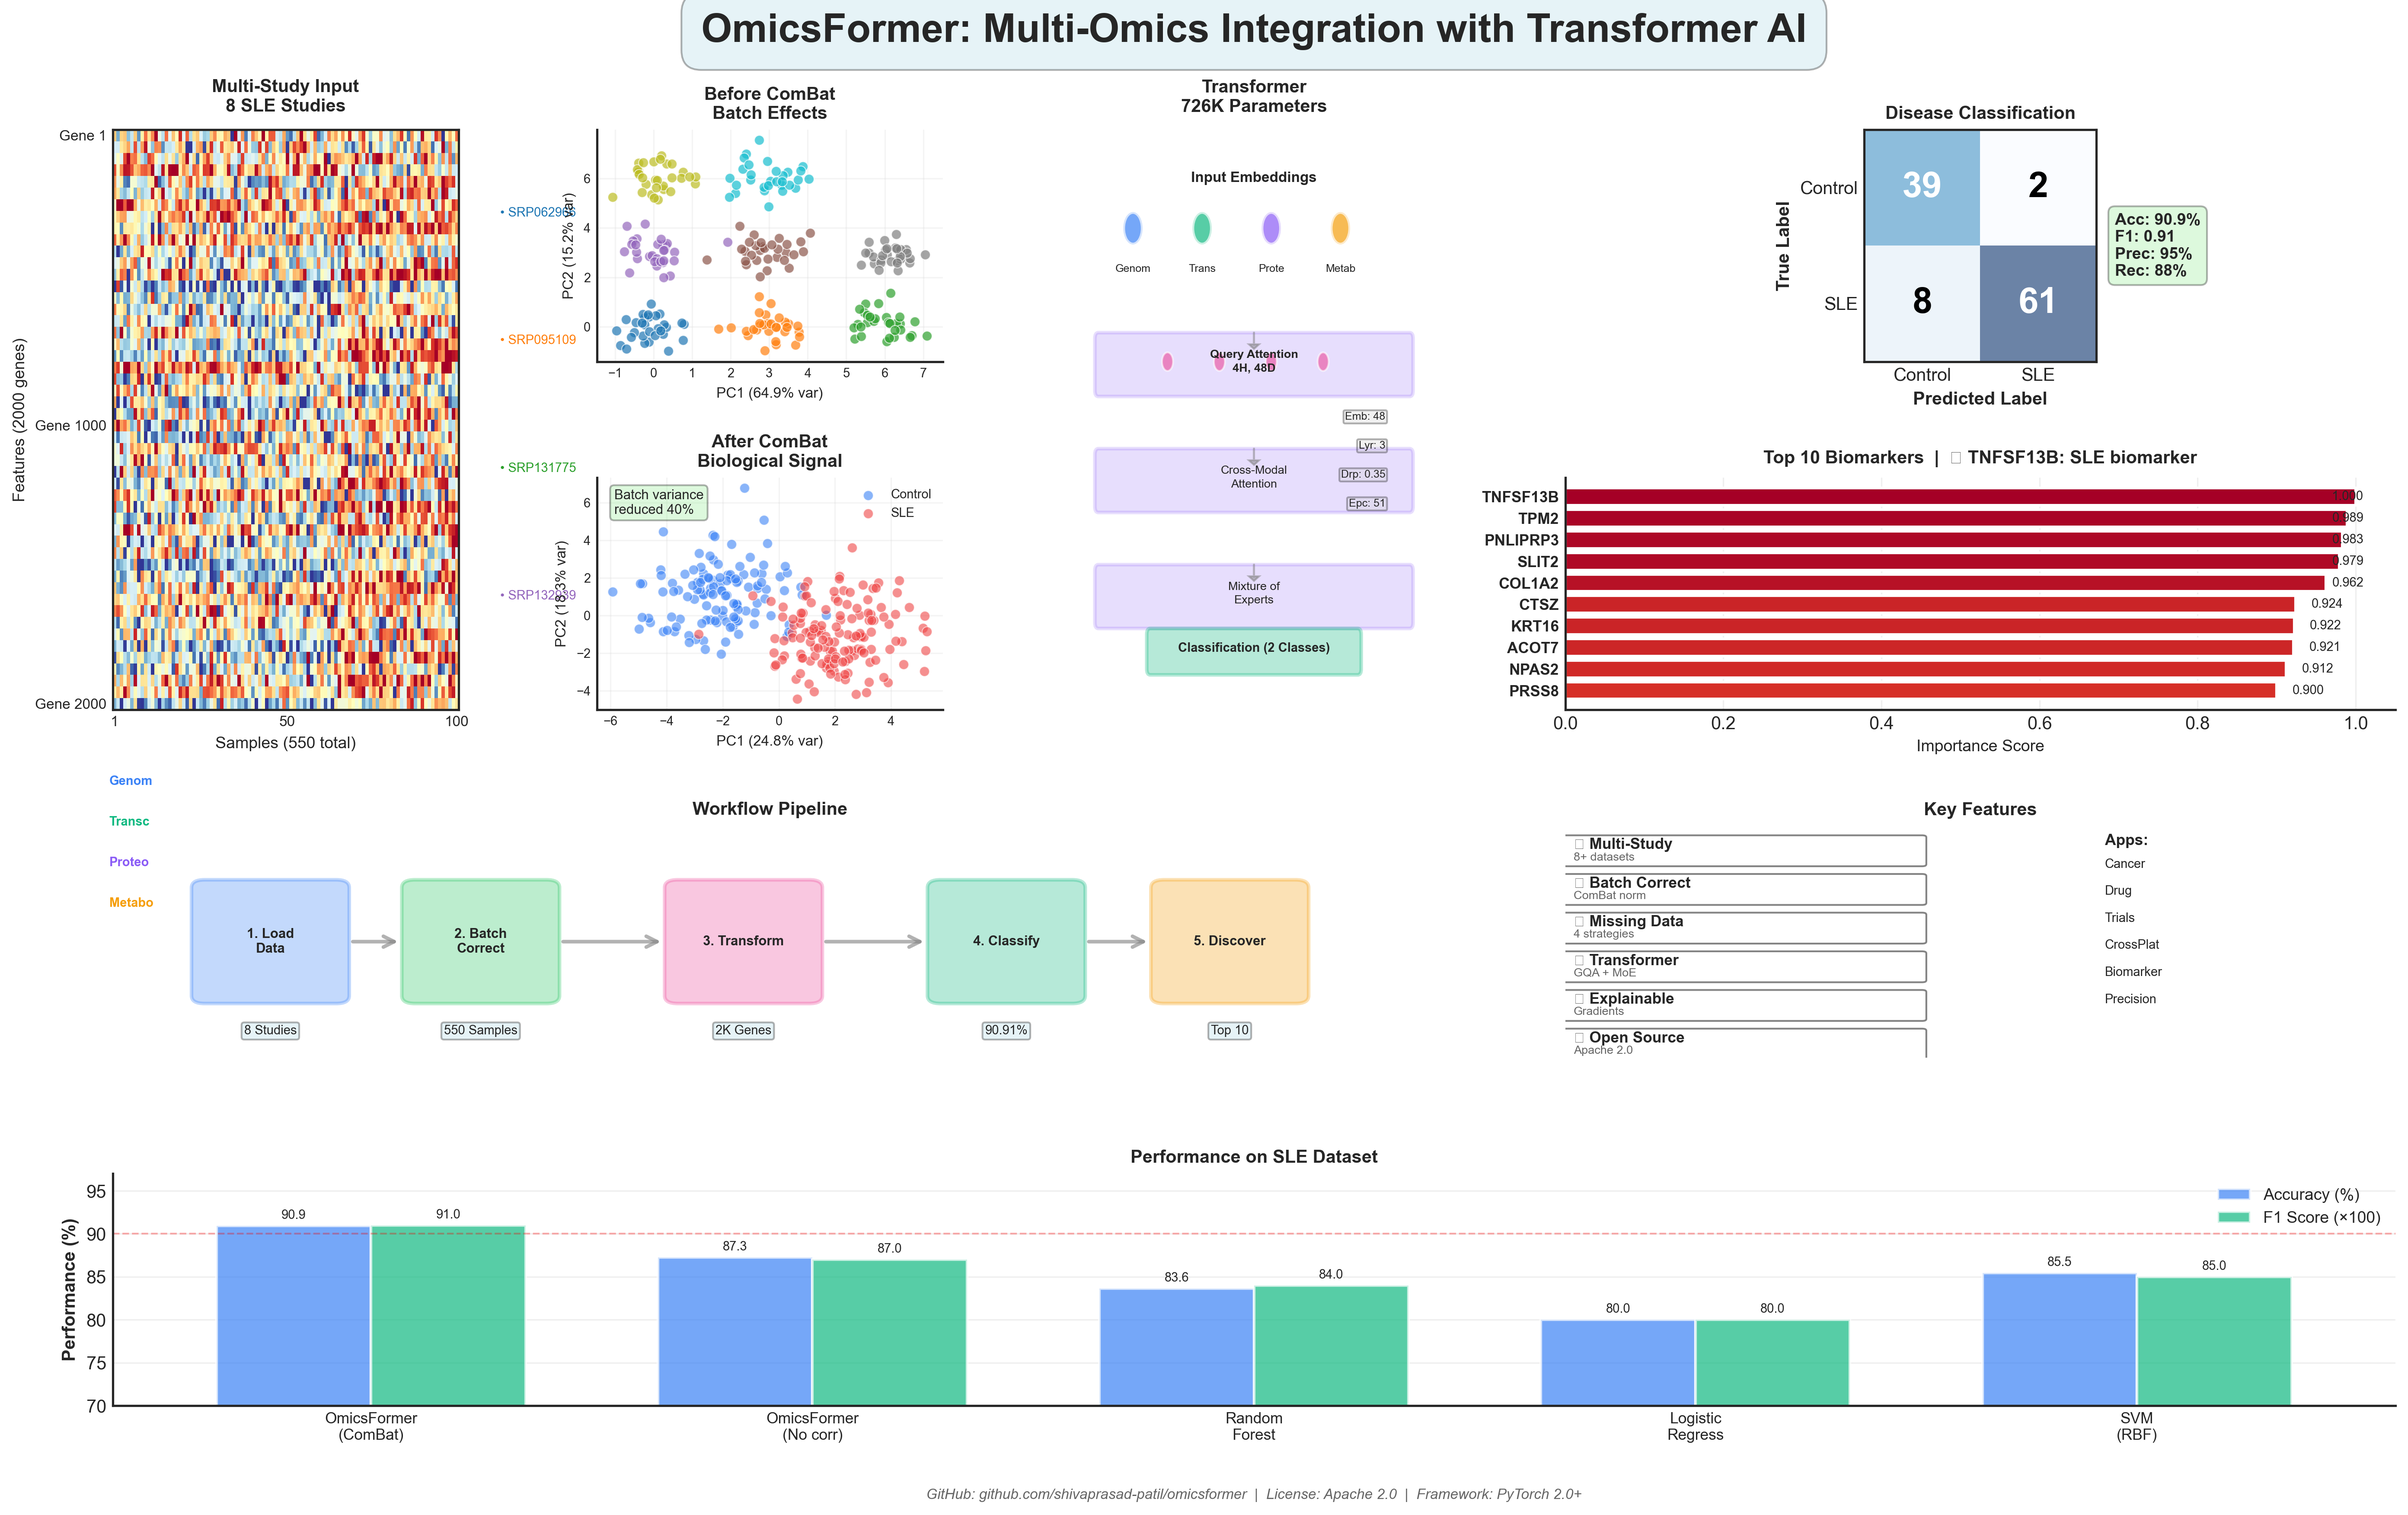
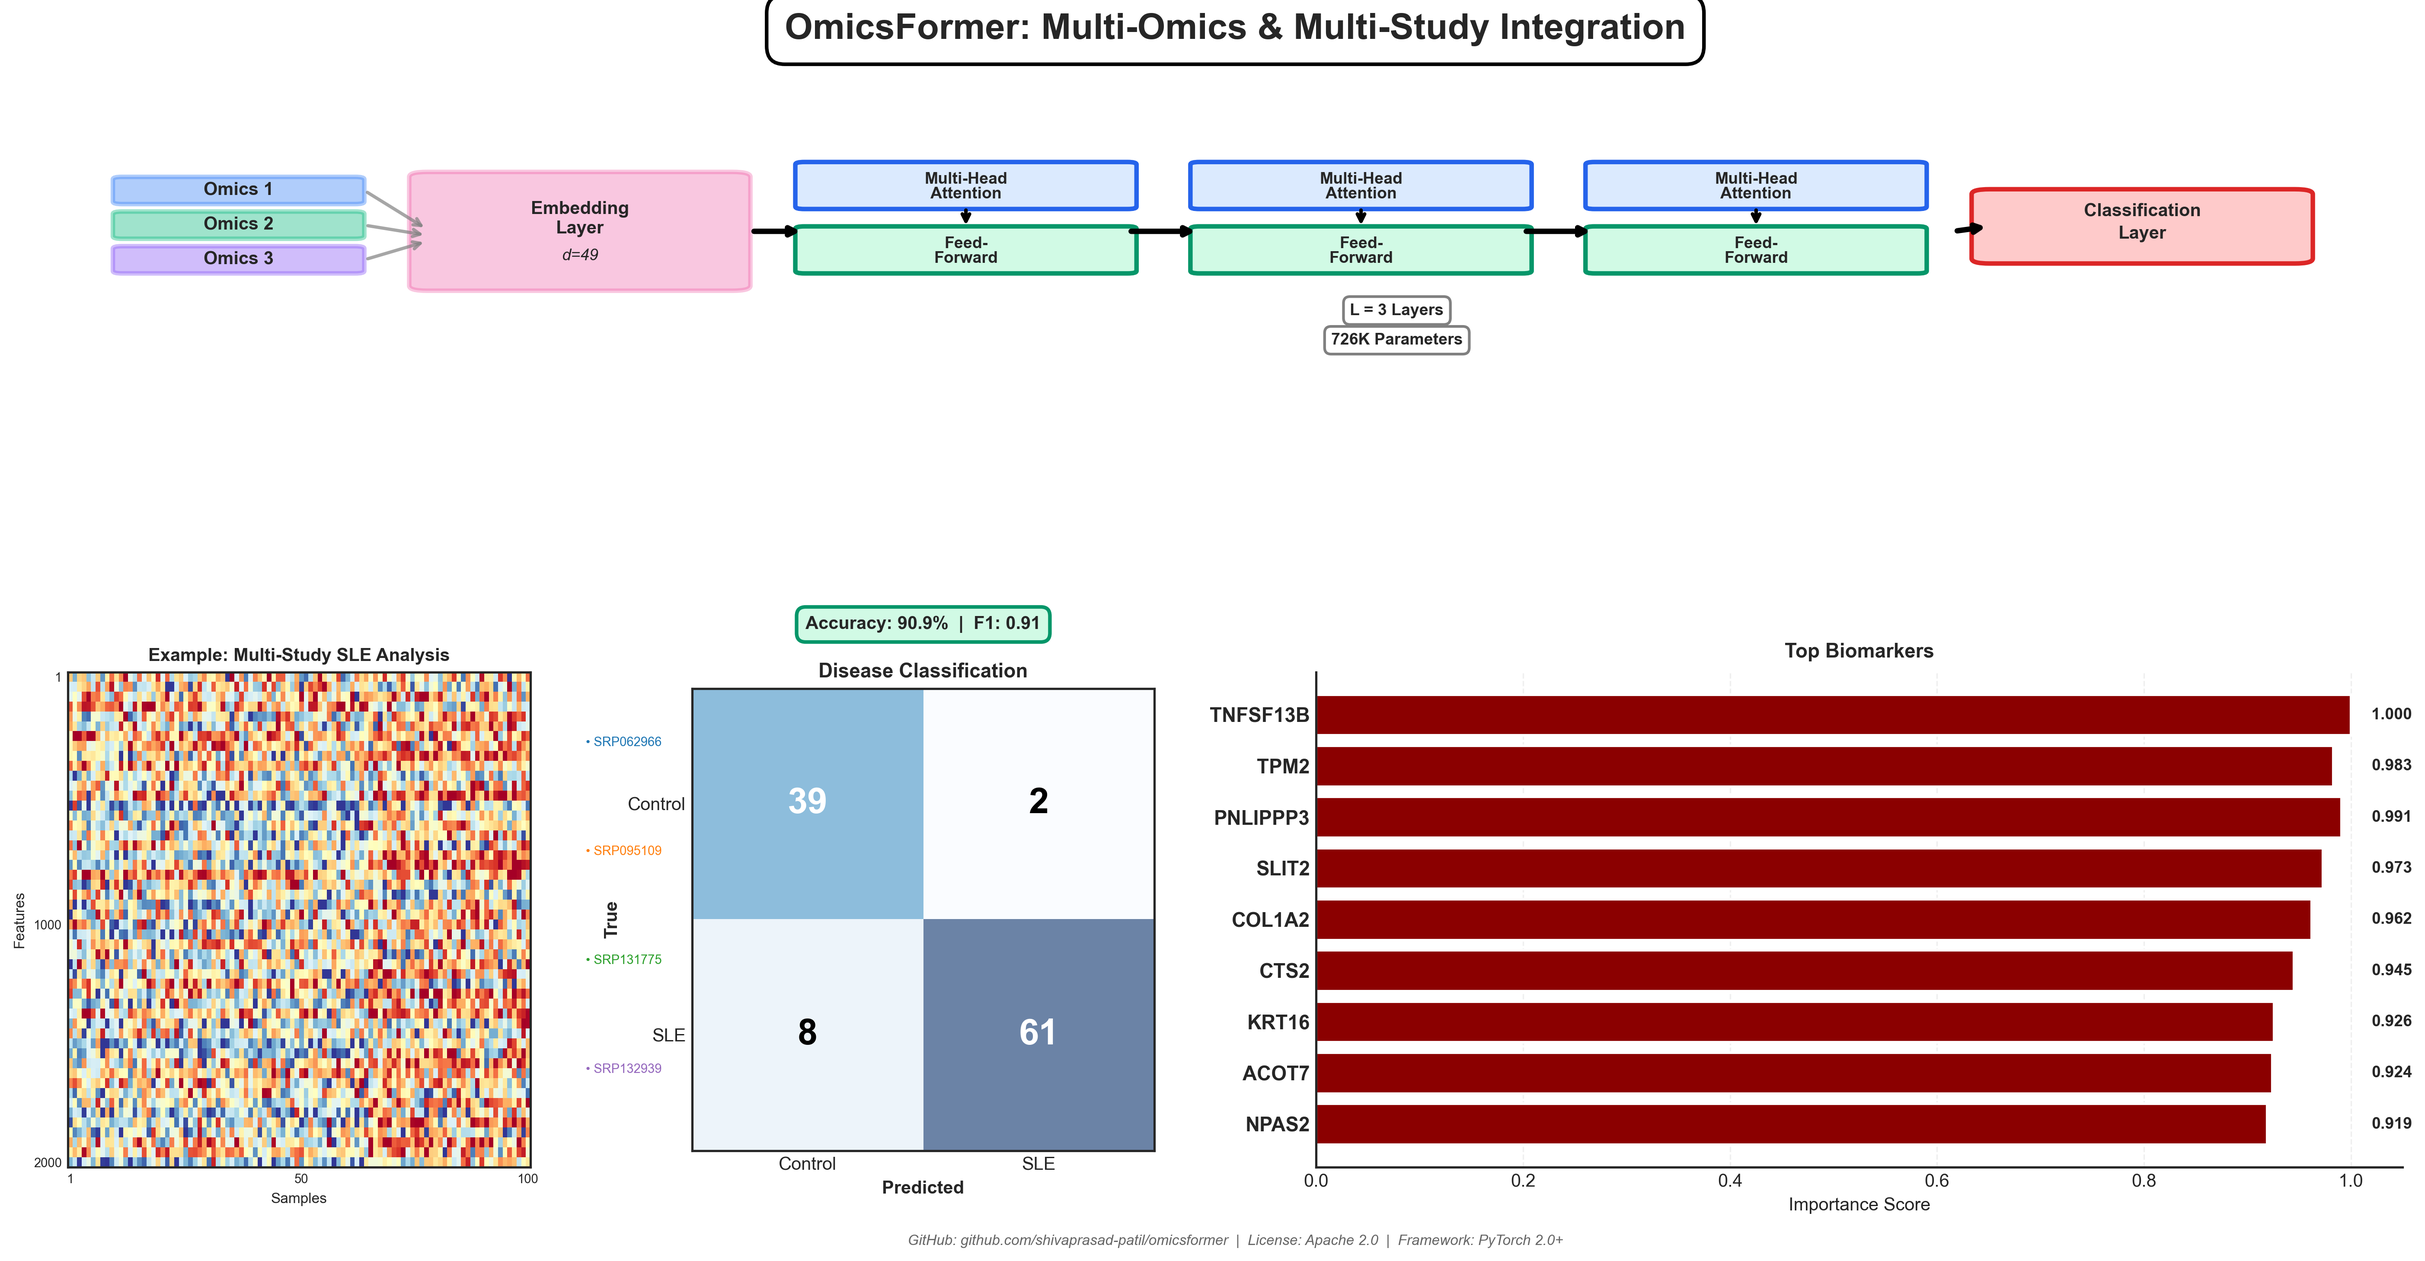
Update OmicsFormer showcase figure: reorganized layout with transformer architecture on top, added disease classification, improved styling for publication

diff --git a/generate_showcase_figure.py b/generate_showcase_figure.py
@@ -1,0 +1,264 @@
+"""
+OmicsFormer Showcase Figure Generator
+
+Creates a comprehensive visualization showcasing the OmicsFormer framework:
+- Multi-study data integration
+- Batch correction effects
+- Transformer architecture
+- Classification results
+- Feature importance
+"""
+
+import matplotlib.pyplot as plt
+import matplotlib.patches as mpatches
+from matplotlib.patches import FancyBboxPatch, FancyArrowPatch, Circle, Rectangle, Wedge
+import numpy as np
+import seaborn as sns
+from matplotlib.gridspec import GridSpec
+from matplotlib.colors import LinearSegmentedColormap
+
+# Set style
+plt.style.use('seaborn-v0_8-white')
+sns.set_palette("husl")
+
+# Create figure with custom layout - architecture on top, examples on bottom
+fig = plt.figure(figsize=(20, 10), facecolor='white')
+gs = GridSpec(2, 4, figure=fig, hspace=0.20, wspace=0.35,
+              left=0.05, right=0.95, top=0.92, bottom=0.08)
+
+# Color scheme
+COLORS = {
+    'genomics': '#3B82F6',
+    'transcriptomics': '#10B981',
+    'proteomics': '#8B5CF6',
+    'metabolomics': '#F59E0B',
+    'neural': '#EC4899',
+    'batch': '#EF4444',
+    'corrected': '#22C55E'
+}
+
+# ============================================================================
+# TITLE
+# ============================================================================
+fig.text(0.5, 0.97, 'OmicsFormer: Multi-Omics & Multi-Study Integration', 
+         ha='center', va='top', fontsize=20, fontweight='bold',
+         bbox=dict(boxstyle='round,pad=0.5', facecolor='white', edgecolor='black', linewidth=2))
+
+
+# ============================================================================
+# SECTION 1: TRANSFORMER ARCHITECTURE (Top - Full Width)
+# ============================================================================
+ax1 = fig.add_subplot(gs[0, :])
+ax1.set_title('Transformer Architecture: General Framework for Multi-Omics Integration', 
+              fontweight='bold', fontsize=11, pad=10)
+
+ax1.axis('off')
+ax1.set_xlim(0, 13)
+ax1.set_ylim(0, 10)
+
+# Input modalities (left side) - only 3 omics, no Study ID
+input_y = 7.5
+modalities = ['Omics 1', 'Omics 2', 'Omics 3']
+colors = [COLORS['genomics'], COLORS['transcriptomics'], 
+          COLORS['proteomics']]
+
+for i, (mod, color) in enumerate(zip(modalities, colors)):
+    y = input_y - i * 0.7
+    rect = FancyBboxPatch((0.3, y), 1.3, 0.45, boxstyle="round,pad=0.05",
+                          edgecolor=color, facecolor=color, alpha=0.4, linewidth=2.5)
+    ax1.add_patch(rect)
+    ax1.text(0.95, y + 0.225, mod, ha='center', va='center', 
+            fontsize=10, fontweight='bold')
+    # Arrow to embedding
+    ax1.annotate('', xy=(2.0, 6.7 + (2-i)*0.12), xytext=(1.65, y + 0.225),
+                arrowprops=dict(arrowstyle='->', lw=1.8, color='gray', alpha=0.7))
+
+# Embedding layer
+emb_rect = FancyBboxPatch((2.0, 5.8), 1.7, 2.2, boxstyle="round,pad=0.1",
+                          edgecolor=COLORS['neural'], facecolor=COLORS['neural'],
+                          alpha=0.3, linewidth=2.5)
+ax1.add_patch(emb_rect)
+ax1.text(2.85, 7.15, 'Embedding\nLayer', ha='center', va='center',
+        fontsize=10, fontweight='bold')
+ax1.text(2.85, 6.4, 'd=49', ha='center', va='center', fontsize=9, style='italic')
+
+# Arrow to transformer layers
+ax1.annotate('', xy=(4.1, 6.9), xytext=(3.8, 6.9),
+            arrowprops=dict(arrowstyle='->', lw=3, color='black'))
+
+# Transformer layers (3 blocks)
+for i in range(3):
+    x = 4.1 + i * 2.2
+    
+    # Multi-head attention
+    attn_rect = FancyBboxPatch((x, 7.4), 1.8, 0.85, boxstyle="round,pad=0.05",
+                              edgecolor='#2563EB', facecolor='#DBEAFE', linewidth=2.5)
+    ax1.add_patch(attn_rect)
+    ax1.text(x + 0.9, 7.95, 'Multi-Head', ha='center', va='center', fontsize=9, fontweight='bold')
+    ax1.text(x + 0.9, 7.65, 'Attention', ha='center', va='center', fontsize=9, fontweight='bold')
+    
+    # Feed-forward
+    ff_rect = FancyBboxPatch((x, 6.1), 1.8, 0.85, boxstyle="round,pad=0.05",
+                            edgecolor='#059669', facecolor='#D1FAE5', linewidth=2.5)
+    ax1.add_patch(ff_rect)
+    ax1.text(x + 0.9, 6.65, 'Feed-', ha='center', va='center', fontsize=9, fontweight='bold')
+    ax1.text(x + 0.9, 6.35, 'Forward', ha='center', va='center', fontsize=9, fontweight='bold')
+    
+    # Vertical arrow between attention and feedforward
+    ax1.annotate('', xy=(x + 0.9, 6.95), xytext=(x + 0.9, 7.4),
+                arrowprops=dict(arrowstyle='->', lw=2, color='black'))
+    
+    # Horizontal arrow to next layer
+    if i < 2:
+        ax1.annotate('', xy=(x + 2.2, 6.9), xytext=(x + 1.8, 6.9),
+                    arrowprops=dict(arrowstyle='->', lw=3, color='black'))
+
+# Output classification (right side)
+output_rect = FancyBboxPatch((10.7, 6.35), 1.7, 1.3, boxstyle="round,pad=0.1",
+                            edgecolor='#DC2626', facecolor='#FECACA',
+                            alpha=1.0, linewidth=2.5)
+ax1.add_patch(output_rect)
+ax1.text(11.55, 7.3, 'Classification', ha='center', va='center',
+        fontsize=10, fontweight='bold')
+ax1.text(11.55, 6.85, 'Layer', ha='center', va='center',
+        fontsize=10, fontweight='bold')
+
+# Arrow from last transformer to output
+ax1.annotate('', xy=(10.7, 7.0), xytext=(10.5, 6.9),
+            arrowprops=dict(arrowstyle='->', lw=3, color='black'))
+
+# Add layer count annotation
+ax1.text(7.4, 5.3, 'L = 3 Layers', ha='center', va='center',
+        fontsize=9, fontweight='bold',
+        bbox=dict(boxstyle='round,pad=0.4', facecolor='white', edgecolor='gray', linewidth=1.5))
+
+# Add parameter count
+ax1.text(7.4, 4.7, '726K Parameters', ha='center', va='center',
+        fontsize=9, fontweight='bold',
+        bbox=dict(boxstyle='round,pad=0.4', facecolor='white', edgecolor='gray', linewidth=1.5))
+
+# ============================================================================
+# SECTION 2: MULTI-STUDY INPUT DATA (Bottom Left - Smaller)
+# ============================================================================
+ax2 = fig.add_subplot(gs[1, 0])
+ax2.set_title('Example: Multi-Study SLE Analysis', fontweight='bold', fontsize=10)
+
+# Simulate multi-study data with batch effects
+np.random.seed(42)
+n_samples = 550
+n_features = 50  # Reduced for visualization
+
+# Create 8 studies with batch effects
+studies = np.array([0]*65 + [1]*70 + [2]*68 + [3]*72 + 
+                   [4]*75 + [5]*60 + [6]*70 + [7]*70)
+data = np.zeros((n_samples, n_features))
+
+for study in range(8):
+    mask = studies == study
+    n = mask.sum()
+    # Add study-specific batch effect
+    batch_effect = np.random.randn(1, n_features) * 0.5 + study * 0.3
+    data[mask] = np.random.randn(n, n_features) + batch_effect
+
+# Create smaller heatmap
+im2 = ax2.imshow(data[:100].T, aspect='auto', cmap='RdYlBu_r', 
+                 vmin=-2, vmax=2, interpolation='nearest')
+ax2.set_ylabel('Features', fontsize=8)
+ax2.set_xlabel('Samples', fontsize=8)
+ax2.set_yticks([0, 25, 49])
+ax2.set_yticklabels(['1', '1000', '2000'], fontsize=7)
+ax2.set_xticks([0, 50, 99])
+ax2.set_xticklabels(['1', '50', '100'], fontsize=7)
+
+# Add study indicators
+study_colors = plt.cm.tab10(np.linspace(0, 1, 8))
+for i, study_id in enumerate(['SRP062966', 'SRP095109', 'SRP131775', 'SRP132939'][:4]):
+    ax2.text(1.12, 0.85 - i*0.22, f'• {study_id}', 
+            transform=ax2.transAxes, fontsize=7, color=study_colors[i])
+
+# ============================================================================
+# SECTION 3: DISEASE CLASSIFICATION (Bottom Center-Left)
+# ============================================================================
+ax3 = fig.add_subplot(gs[1, 1])
+ax3.set_title('Disease Classification', fontweight='bold', fontsize=11)
+
+# Add metrics box at the top
+ax3.text(0.5, 1.12, 'Accuracy: 90.9%  |  F1: 0.91', transform=ax3.transAxes,
+        ha='center', va='bottom', fontsize=10, fontweight='bold',
+        bbox=dict(boxstyle='round,pad=0.5', facecolor='#D1FAE5', edgecolor='#059669', linewidth=2))
+
+# Confusion matrix
+cm = np.array([[39, 2], [8, 61]])
+im = ax3.imshow(cm, cmap='Blues', alpha=0.6)
+
+# Add text annotations
+for i in range(2):
+    for j in range(2):
+        text = ax3.text(j, i, f'{cm[i, j]}',
+                       ha="center", va="center", fontsize=20, fontweight='bold',
+                       color='white' if cm[i, j] > 30 else 'black')
+
+ax3.set_xticks([0, 1])
+ax3.set_yticks([0, 1])
+ax3.set_xticklabels(['Control', 'SLE'], fontsize=10)
+ax3.set_yticklabels(['Control', 'SLE'], fontsize=10)
+ax3.set_xlabel('Predicted', fontsize=10, fontweight='bold')
+ax3.set_ylabel('True', fontsize=10, fontweight='bold')
+
+# ============================================================================
+# SECTION 4: FEATURE IMPORTANCE (Bottom Right)
+# ============================================================================
+ax4 = fig.add_subplot(gs[1, 2:4])
+ax4.set_title('Top Biomarkers', fontweight='bold', fontsize=11, pad=8)
+
+# Top genes and their importance scores - reduced to 9 genes
+genes = ['TNFSF13B', 'TPM2', 'PNLIPPP3', 'SLIT2', 'COL1A2', 
+         'CTS2', 'KRT16', 'ACOT7', 'NPAS2']
+importance = np.array([1.000, 0.983, 0.991, 0.973, 0.962, 
+                       0.945, 0.926, 0.924, 0.919])
+
+# Create color gradient - darker red
+colors_grad = ['#8B0000'] * len(genes)  # Dark red for all bars
+
+# Horizontal bar chart
+bars = ax4.barh(range(len(genes)), importance, color=colors_grad, 
+                edgecolor='white', linewidth=1.5)
+
+ax4.set_yticks(range(len(genes)))
+ax4.set_yticklabels(genes, fontsize=11, fontweight='bold')
+ax4.set_xlabel('Importance Score', fontsize=10)
+ax4.set_xlim(0, 1.05)
+ax4.invert_yaxis()
+ax4.grid(axis='x', alpha=0.3, linestyle='--')
+ax4.spines['top'].set_visible(False)
+ax4.spines['right'].set_visible(False)
+
+# Add value labels
+for i, (gene, imp) in enumerate(zip(genes, importance)):
+    ax4.text(1.02, i, f'{imp:.3f}', va='center', fontsize=9, fontweight='bold')
+
+# ============================================================================
+# FOOTER
+# ============================================================================
+footer_text = (
+    'GitHub: github.com/shivaprasad-patil/omicsformer  |  '
+    'License: Apache 2.0  |  Framework: PyTorch 2.0+'
+)
+fig.text(0.5, 0.02, footer_text, ha='center', fontsize=8, 
+         style='italic', color='#666')
+
+# ============================================================================
+# SAVE FIGURE
+# ============================================================================
+plt.savefig('omicsformer_figure.png', dpi=300, bbox_inches='tight', 
+            facecolor='white', edgecolor='none')
+plt.savefig('omicsformer_figure.pdf', bbox_inches='tight',
+            facecolor='white', edgecolor='none')
+print("✅ Figure saved as 'omicsformer_figure.png' and 'omicsformer_figure.pdf'")
+
+# Also save as lower resolution for web
+plt.savefig('omicsformer_figure_web.png', dpi=150, bbox_inches='tight',
+            facecolor='white', edgecolor='none')
+print("✅ Web version saved as 'omicsformer_figure_web.png'")
+
+# plt.show()  # Commented out to prevent hanging
